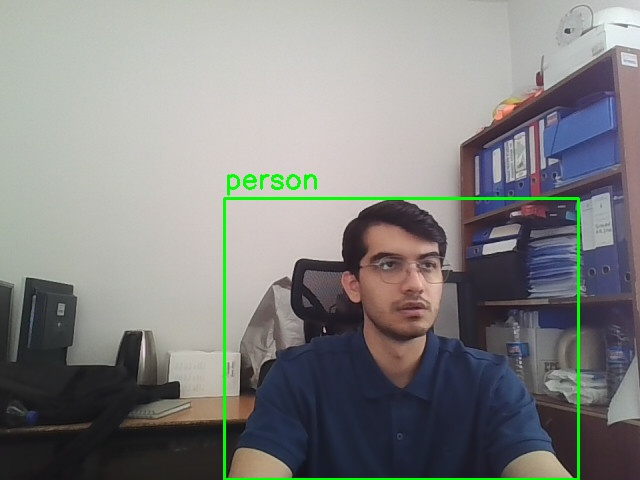
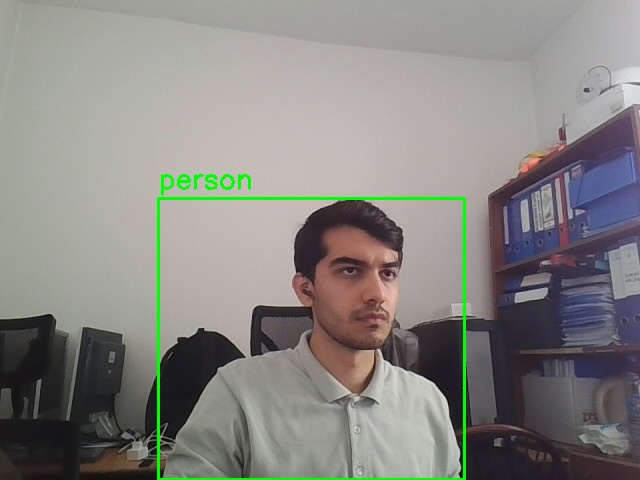
pi update

diff --git a/test.py b/test.py
@@ -1,100 +1,41 @@
 import cv2
-import numpy as np
-import time
 from ultralytics import YOLO
+import time
 
-# YOLOv8 modelini yükle (kendi modelinin yolunu yaz)
-model = YOLO("seat_model.pt")  # Eğitimli model dosyan
-
-LABEL_MAP = {
-    0: ("Standing", (0, 0, 255)),     # Kırmızı
-    1: ("Unbelted", (255, 0, 0)),     # Mavi
-    2: ("Belted", (0, 255, 0))        # Yeşil
+# Kamera kaynakları
+cams = {
+    "cam1": cv2.VideoCapture(0),
+    "cam2": cv2.VideoCapture(1),
+    "cam3": cv2.VideoCapture(2),
 }
 
+# YOLOv8 modelini yükle
+model = YOLO("yolov8n.pt")
 
-# Koltuk özet durumu için renkler
-COLOR_MAP = {
-    "empty": (180, 180, 180),
-    "occupied": (0, 0, 255),
-    "belted": (0, 255, 0)
-}
-
-def interpret_state(classes):
-    """
-    Genel koltuk durumu özetini çıkarır.
-    """
-    if 2 in classes:
-        return "belted"
-    elif 1 in classes:
-        return "occupied"
-    elif set(classes) == {0} or len(classes) == 0:
-        return "empty"
-    else:
-        return "empty"
-
-def draw_seat_status(status):
-    """
-    Koltuk durumu özet görseli üretir.
-    """
-    img = np.ones((200, 200, 3), dtype=np.uint8) * 255
-    color = COLOR_MAP[status]
-    cv2.rectangle(img, (70, 70), (130, 130), color, -1)
-    cv2.putText(img, status, (50, 180), cv2.FONT_HERSHEY_SIMPLEX, 0.6, (0, 0, 0), 2)
-    return img
-
-def draw_individuals(results, frame):
-    """
-    Her bir insan için kutu ve etiket çizer.
-    """
-    img = frame.copy()
-    boxes = results.boxes
-    for i, (cls_id, box) in enumerate(zip(boxes.cls, boxes.xyxy)):
-        cls_id = int(cls_id)
-        label, color = LABEL_MAP.get(cls_id, ("Unknown", (0, 0, 0)))
-        x1, y1, x2, y2 = map(int, box)
-        cv2.rectangle(img, (x1, y1), (x2, y2), color, 2)
-        cv2.putText(img, f"{label} #{i+1}", (x1, y1 - 10),
-                    cv2.FONT_HERSHEY_SIMPLEX, 0.6, color, 2)
-    return img
-
-def run_live_detection():
-    cap = cv2.VideoCapture(0)
-
-    if not cap.isOpened():
-        print("🚫 Kamera açılamadı.")
-        return
-
-    while True:
+def capture():
+    for name, cap in cams.items():
         ret, frame = cap.read()
         if not ret:
-            print("🚫 Görüntü alınamadı.")
-            break
+            continue
 
-        # YOLO tahmini
-        results = model(frame, verbose=False)[0]
+        results = model(frame)[0]  # İlk kare sonuçları
+        person_boxes = []
+        for box, cls in zip(results.boxes.xyxy, results.boxes.cls):
+            if int(cls) == 0:  # 0 = person
+                person_boxes.append(box)
 
-        # Görsel 1: Kişi bazlı işlenmiş görüntü
-        individual_img = draw_individuals(results, frame)
+        # Yeni bir boş görsel oluştur
+        person_frame = frame.copy()
 
-        # Görsel 2: Genel koltuk durumu (özet)
-        classes = [int(c) for c in results.boxes.cls.tolist()]
-        seat_state = interpret_state(classes)
-        seat_img = draw_seat_status(seat_state)
+        # Sadece person olanları çiz
+        for box in person_boxes:
+            x1, y1, x2, y2 = map(int, box)
+            cv2.rectangle(person_frame, (x1, y1), (x2, y2), (0, 255, 0), 2)
+            cv2.putText(person_frame, "person", (x1, y1 - 10), cv2.FONT_HERSHEY_SIMPLEX,
+                        0.9, (0, 255, 0), 2)
 
-        # Görselleri yan yana birleştir
-        combined = np.hstack((cv2.resize(individual_img, (400, 400)),
-                              cv2.resize(seat_img, (400, 400))))
-        cv2.imshow("Individuals + Seat Summary", combined)
+        cv2.imwrite(f"external_cameras/{name}_output.jpg", person_frame)
 
-        # 'q' tuşuyla çıkış
-        if cv2.waitKey(1) & 0xFF == ord("q"):
-            break
 
-        time.sleep(0.2)
-
-    cap.release()
-    cv2.destroyAllWindows()
-
-if __name__ == "__main__":
-    run_live_detection()
+if __name__ == '__main__':
+    capture()

diff --git a/main.py b/main.py
@@ -27,8 +27,8 @@ def update_view():
     internal.capture()
     external.capture()
     cam1 = read_image("external_cameras/cam1_output.jpg")
-    cam2 = read_image("external_cameras/cam1_output.jpg")
-    cam3 = read_image("external_cameras/cam1_output.jpg")
+    cam2 = read_image("external_cameras/cam2_output.jpg")
+    cam3 = read_image("external_cameras/cam3_output.jpg")
     seat = read_image("internal_cameras/seat_simulation.jpg")
     print_memory_usage()
     return cam1, cam2, cam3, seat

diff --git a/external_cameras.py b/external_cameras.py
@@ -5,6 +5,8 @@ import time
 # Kamera kaynakları
 cams = {
     "cam1": cv2.VideoCapture(0),
+    "cam2": cv2.VideoCapture(1),
+    "cam3": cv2.VideoCapture(2),
 }
 
 # YOLOv8 modelini yükle
